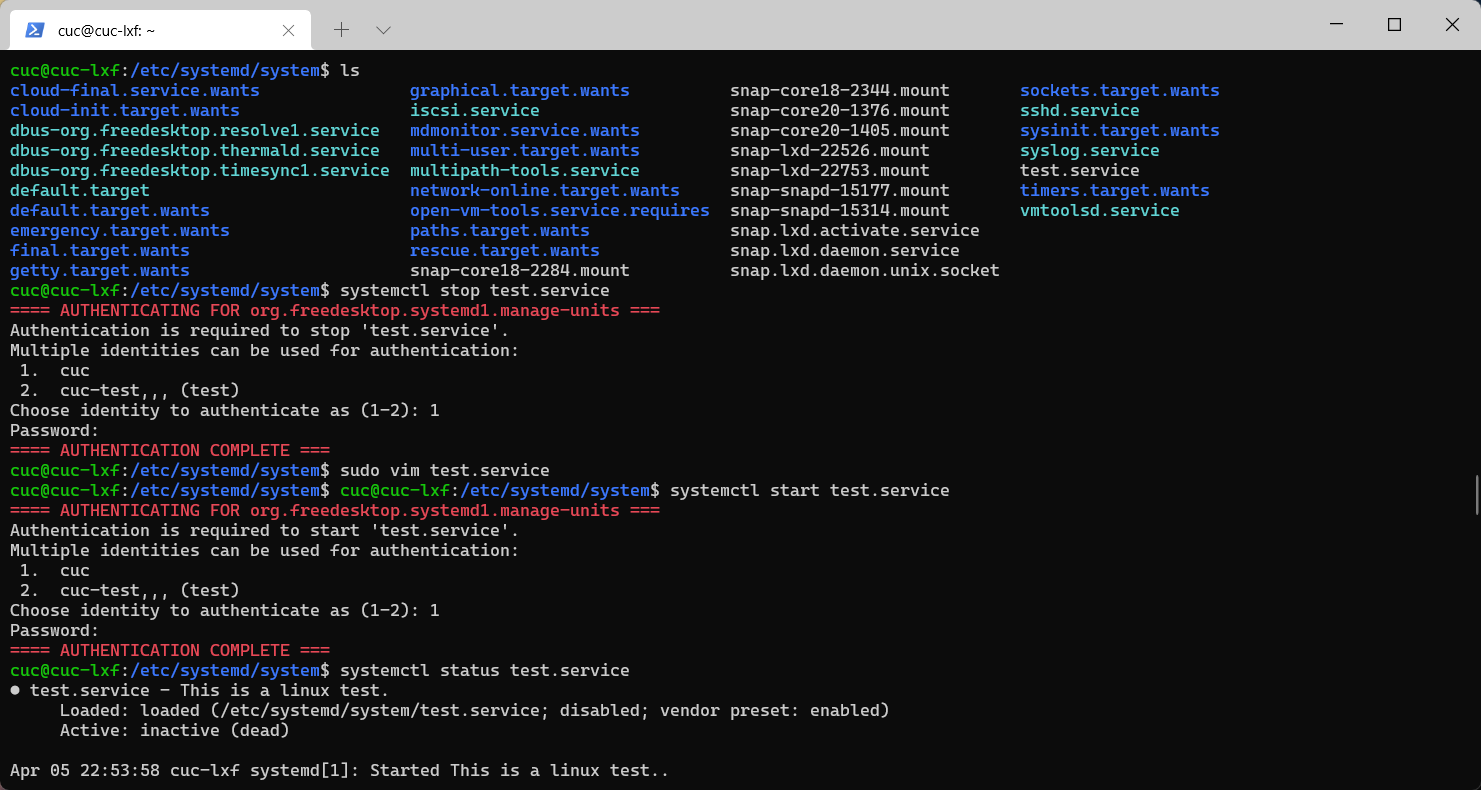
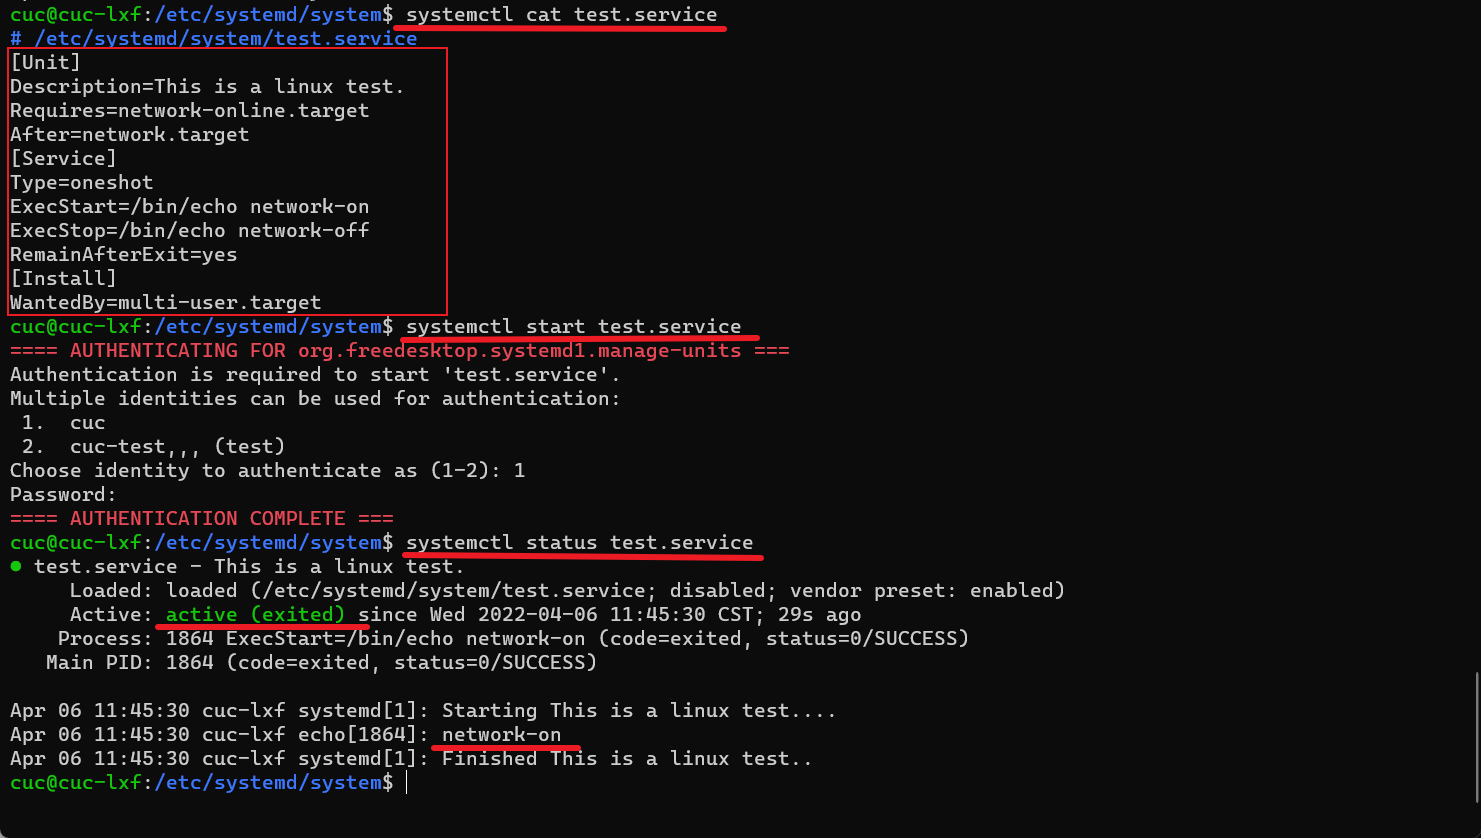
chap0x03/完善实验

diff --git a/chap0x03/第三章：Linux服务器系统管理基础（实验）.md b/chap0x03/第三章：Linux服务器系统管理基础（实验）.md
@@ -712,11 +712,11 @@ df -h
    Description=This is a linux test.
    Requires=network-online.target
    After=network.target
-   
    [Service]
-   ExecStart=/bin/echo network-on >> /home/cuc/log 
-   ExecStop=/bin/echo network-on >> /home/cuc/log 
-   
+   Type=oneshot
+   ExecStart=/bin/echo network-on
+   ExecStop=/bin/echo network-off
+   RemainAfterExit=yes
    [Install]
    WantedBy=multi-user.target
    
@@ -729,9 +729,11 @@ df -h
 
    ![test.service](img/test.service.png)
 
-2. 重载后运行`test.service`
+2. 关闭`network-online.target`服务后，观察`test.service`的日志
 
-3. 不知为何提示 Active: inactive (dead)，也就是服务 disabled。我再研究一下……
+   ![network-online.target_off](img/network-online.target_off.png)
+
+3. 可以看到日志里通过`network-online.target`服务的开启关闭引起了`test.service`的正确执行，从而实现了在网络连通时运行一个指定脚本，在网络断开时运行另一个脚本
 
 ##### 如何通过 systemd 设置实现一个脚本在任何情况下被杀死之后会立即重新启动,实现''杀不死''?
 
@@ -764,18 +766,38 @@ df -h
   timedatectl set-ntp 0
   ```
 
-- systemd 设置实现脚本运行所示，出现了无法运行的情况。
+- systemd 设置实现脚本运行时，出现了无法运行的情况。
 
+  ```bash
+  test.service - This is a linux test.
+       Loaded: loaded (/etc/systemd/system/test.service; disabled; vendor preset: enabled)
+       Active: inactive (dead)
+  ```
 
+  猜测可能是写 .service 文件时没配置好导致的，借鉴了网上一些写法，最后还是运行起来了。
+
+------
 
 ## 参考链接
 
 - [Systemd 入门教程：命令篇 by 阮一峰的网络日志](http://www.ruanyifeng.com/blog/2016/03/systemd-tutorial-commands.html)
+
 - [Systemd 入门教程：实战篇 by 阮一峰的网络日志](http://www.ruanyifeng.com/blog/2016/03/systemd-tutorial-part-two.html)
+
 - [第三章：Linux服务器系统管理基础](https://c4pr1c3.github.io/LinuxSysAdmin/chap0x03.md.html#/title-slide)
+
 - [最新cenos执行service httpd restart 报错Failed to restart httpd.service: Unit not found.](https://www.shuzhiduo.com/A/GBJrwMr950/)
+
 - [走进Linux之systemd启动过程](https://blog.csdn.net/YuZhiHui_No1/article/details/52228763)
+
 - [apache2](https://httpd.apache.org/)
+
 - [Apache HTTP Server](https://en.wikipedia.org/wiki/Apache_HTTP_Server)
+
 - [Failed to set time: Automatic time synchronization is enabled](https://www.linuxhelp.com/questions/failed-to-set-time-automatic-time-synchronization-is-enabled)
+
 - [systemd.service 中文手册](http://www.jinbuguo.com/systemd/systemd.service.html)
+
+- [linux 之.service文件简介 （新版systemctl服务）](https://blog.csdn.net/m0_46426259/article/details/121681493)
+
+  
